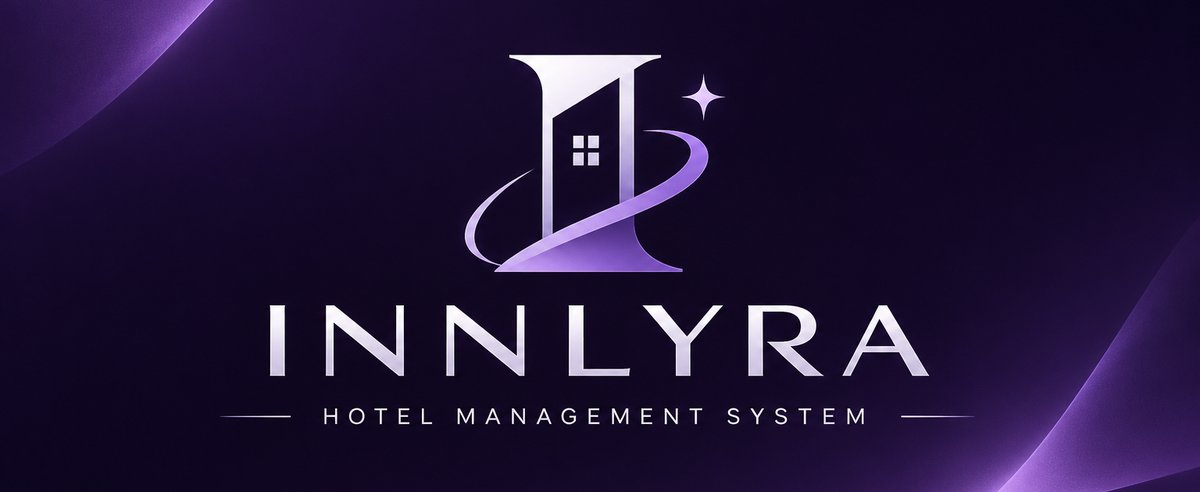
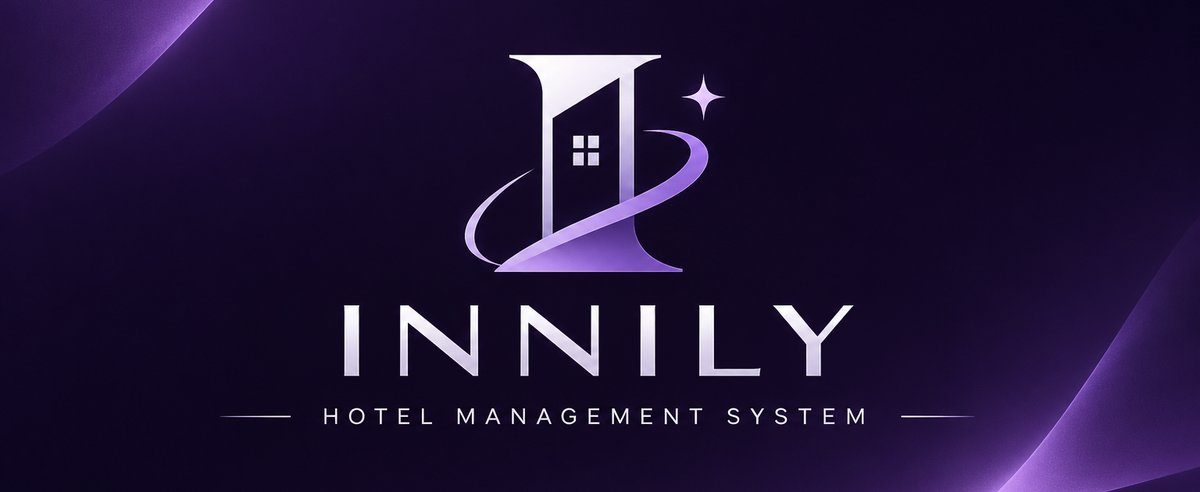
Новое название INNILY и домен innily.com (CNAME, ссылки, логотипы)

Changed region(s): [[0.2158, 0.6098, 0.7708, 0.7622]]

diff --git a/index.html b/index.html
@@ -1,18 +1,18 @@
 <!doctype html>
-<!-- INNLYRA — © 2026 pan1ka0 (https://github.com/pan1ka0). Все права защищены. -->
+<!-- INNILY — © 2026 pan1ka0 (https://github.com/pan1ka0). Все права защищены. -->
 <html lang="ru">
 <head>
 <meta charset="utf-8">
 <meta name="viewport" content="width=device-width, initial-scale=1">
-<title>INNLYRA — программа для гостиницы</title>
-<meta name="description" content="INNLYRA — программа для гостиниц Узбекистана: шахматка номеров, регистрация гостей, оплаты и долги по суткам, смены, касса, отчёты и Telegram-бот директора.">
+<title>INNILY — программа для гостиницы</title>
+<meta name="description" content="INNILY — программа для гостиниц Узбекистана: шахматка номеров, регистрация гостей, оплаты и долги по суткам, смены, касса, отчёты и Telegram-бот директора.">
 <meta name="theme-color" content="#1a0b2e">
 <meta property="og:type" content="website">
-<meta property="og:title" content="INNLYRA — программа для гостиницы">
+<meta property="og:title" content="INNILY — программа для гостиницы">
 <meta property="og:description" content="Шахматка, регистрация гостей, оплаты, смены, касса и отчёты. Директор видит всё в Telegram.">
-<meta property="og:image" content="https://pan1ka0.github.io/innlyra-site/img/og.jpg">
-<meta property="og:url" content="https://pan1ka0.github.io/innlyra-site/">
-<link rel="canonical" href="https://pan1ka0.github.io/innlyra-site/">
+<meta property="og:image" content="https://innily.com/img/og.jpg">
+<meta property="og:url" content="https://innily.com/">
+<link rel="canonical" href="https://innily.com/">
 <link rel="icon" type="image/png" href="img/favicon.png">
 <link rel="apple-touch-icon" href="img/logo.png">
 <link rel="preconnect" href="https://fonts.googleapis.com">
@@ -24,9 +24,9 @@
 
 <header class="top" id="top">
   <div class="wrap top__in">
-    <a class="brand" href="#top" aria-label="INNLYRA">
+    <a class="brand" href="#top" aria-label="INNILY">
       <img src="img/logo_96.png" alt="" width="40" height="40">
-      <span class="brand__name">INNLYRA</span>
+      <span class="brand__name">INNILY</span>
     </a>
     <nav class="menu" id="menu" aria-label="Меню">
       <a href="#features" data-i18n="nav.features">Возможности</a>
@@ -75,8 +75,8 @@
     </div>
     <figure class="hero__shot">
       <div class="window">
-        <div class="window__bar" aria-hidden="true"><i></i><i></i><i></i><span>INNLYRA</span></div>
-        <img src="img/chess_timeline.webp" width="1680" height="960" alt="Шахматка номеров в INNLYRA" data-i18n-alt="alt.timeline">
+        <div class="window__bar" aria-hidden="true"><i></i><i></i><i></i><span>INNILY</span></div>
+        <img src="img/chess_timeline.webp" width="1680" height="960" alt="Шахматка номеров в INNILY" data-i18n-alt="alt.timeline">
       </div>
     </figure>
   </div>
@@ -173,8 +173,8 @@
     </div>
     <figure class="viewer">
       <button type="button" class="window window--btn" id="shotOpen" aria-label="Открыть крупно">
-        <span class="window__bar" aria-hidden="true"><i></i><i></i><i></i><span>INNLYRA</span></span>
-        <img id="shotImg" src="img/dashboard.webp" width="1680" height="960" alt="Главная INNLYRA" loading="lazy">
+        <span class="window__bar" aria-hidden="true"><i></i><i></i><i></i><span>INNILY</span></span>
+        <img id="shotImg" src="img/dashboard.webp" width="1680" height="960" alt="Главная INNILY" loading="lazy">
       </button>
       <figcaption id="shotCap" data-i18n="s.c1">Главная: заезды и выезды на сегодня, свободные номера, уборки, загрузка и должники.</figcaption>
     </figure>
@@ -196,7 +196,7 @@
       </ul>
     </div>
     <div class="phone" aria-hidden="true">
-      <div class="phone__head"><img src="img/logo_96.png" alt="" width="34" height="34"><div><b>INNLYRA</b><small data-i18n="d.bot">бот директора</small></div></div>
+      <div class="phone__head"><img src="img/logo_96.png" alt="" width="34" height="34"><div><b>INNILY</b><small data-i18n="d.bot">бот директора</small></div></div>
       <div class="phone__body">
         <div class="msg">
           <b data-i18n="d.m1a">💰 Оплата 600 000</b>
@@ -226,7 +226,7 @@
   <div class="wrap">
     <div class="head">
       <p class="eyebrow"><span class="soon" data-i18n="cm.soon">Скоро</span> <span data-i18n="cm.eyebrow">Следующий этап</span></p>
-      <h2>INNLYRA Channel Manager</h2>
+      <h2>INNILY Channel Manager</h2>
       <p class="head__sub" data-i18n="cm.sub">Продавайте номера на всех сайтах бронирования из одного окна. Цены и наличие синхронизируются сами, а брони со всех площадок собираются в одном месте — без овербукинга.</p>
     </div>
     <div class="cm">
@@ -366,7 +366,7 @@
 
 <footer class="foot">
   <div class="wrap foot__in">
-    <div class="brand brand--foot"><img src="img/logo_96.png" alt="" width="32" height="32"><span class="brand__name">INNLYRA</span></div>
+    <div class="brand brand--foot"><img src="img/logo_96.png" alt="" width="32" height="32"><span class="brand__name">INNILY</span></div>
     <p>© 2026 <a href="https://github.com/pan1ka0" target="_blank" rel="noopener">pan1ka0</a>. <span data-i18n="foot.rights">Все права защищены.</span></p>
     <p><a href="https://t.me/pan1ka0" target="_blank" rel="noopener">Telegram</a> · <a href="mailto:support.innlyra@gmail.com">support.innlyra@gmail.com</a></p>
   </div>

diff --git a/js/i18n.js b/js/i18n.js
@@ -1,4 +1,4 @@
-// INNLYRA — © 2026 pan1ka0 (https://github.com/pan1ka0). Все права защищены.
+// INNILY — © 2026 pan1ka0 (https://github.com/pan1ka0). Все права защищены.
 // Переводы сайта. Русский текст берётся из самой страницы (index.html); здесь — узбекский (латиница) и английский.
 // Ключи «s.c1…s.c6» и «alt.*» используются скриптом (подписи скриншотов).
 window.I18N = {
@@ -9,15 +9,15 @@ window.I18N = {
     "s.c4": "Карточка гостя: все проживающие, даты, продление в один клик и оплата по суткам.",
     "s.c5": "Финансы: все оплаты с итогами по видам, выгрузка в Excel и Google Таблицы.",
     "s.c6": "Отчёты: выручка, загрузка, средняя цена за сутки и выручка по видам оплаты.",
-    "alt.timeline": "Шахматка номеров в INNLYRA",
+    "alt.timeline": "Шахматка номеров в INNILY",
     "form.sending": "Отправляем…",
     "form.ok": "Спасибо! Заявка отправлена — мы скоро свяжемся с вами.",
     "form.err": "Не удалось отправить. Напишите нам в Telegram или на почту.",
     "form.req": "Заполните имя и телефон.",
-    "title": "INNLYRA — программа для гостиницы"
+    "title": "INNILY — программа для гостиницы"
   },
   uz: {
-    "title": "INNLYRA — mehmonxona uchun dastur",
+    "title": "INNILY — mehmonxona uchun dastur",
     "nav.features": "Imkoniyatlar",
     "nav.screens": "Skrinshotlar",
     "nav.offer": "Nimalar olasiz",
@@ -33,7 +33,7 @@ window.I18N = {
     "hero.p1": "Ma’lumotlar o‘z kompyuteringizda saqlanadi",
     "hero.p2": "Rus, o‘zbek va ingliz tillarida",
     "hero.p3": "Bepul yangilanishlar",
-    "alt.timeline": "INNLYRA dasturidagi xonalar shaxmatkasi",
+    "alt.timeline": "INNILY dasturidagi xonalar shaxmatkasi",
 
     "f.title": "Resepshn va direktorga kerak bo‘lgan hamma narsa",
     "f.sub": "Har bir funksiya mehmonxonaning real vazifalari asosida yaratilgan.",
@@ -174,7 +174,7 @@ window.I18N = {
     "foot.rights": "Barcha huquqlar himoyalangan."
   },
   en: {
-    "title": "INNLYRA — hotel management software",
+    "title": "INNILY — hotel management software",
     "nav.features": "Features",
     "nav.screens": "Screenshots",
     "nav.offer": "What you get",
@@ -190,7 +190,7 @@ window.I18N = {
     "hero.p1": "Your data stays on your computer",
     "hero.p2": "Russian, Uzbek and English",
     "hero.p3": "Free updates",
-    "alt.timeline": "Room chart in INNLYRA",
+    "alt.timeline": "Room chart in INNILY",
 
     "f.title": "Everything reception and the director need",
     "f.sub": "Every feature is built around real hotel workflows.",

diff --git a/js/main.js b/js/main.js
@@ -1,4 +1,4 @@
-// INNLYRA — © 2026 pan1ka0 (https://github.com/pan1ka0). Все права защищены.
+// INNILY — © 2026 pan1ka0 (https://github.com/pan1ka0). Все права защищены.
 (function () {
   "use strict";
   var FORM_URL = "https://formsubmit.co/ajax/support.innlyra@gmail.com"; // заявки приходят на эту почту
@@ -131,7 +131,7 @@
       "Интересует": topicText,
       "Сообщение": form.message.value.trim(),
       "Язык сайта": lang.toUpperCase(),
-      _subject: "INNLYRA: новая заявка — " + topicText + (form.hotel.value.trim() ? " (" + form.hotel.value.trim() + ")" : ""),
+      _subject: "INNILY: новая заявка — " + topicText + (form.hotel.value.trim() ? " (" + form.hotel.value.trim() + ")" : ""),
       _template: "table",
       _captcha: "false"
     };

diff --git a/css/style.css b/css/style.css
@@ -1,4 +1,4 @@
-/* INNLYRA — © 2026 pan1ka0 (https://github.com/pan1ka0). Все права защищены. */
+/* INNILY — © 2026 pan1ka0 (https://github.com/pan1ka0). Все права защищены. */
 /* Цвета — как в программе (палитра PALETTES в app.py) */
 :root {
   --brand: #1a0b2e;
